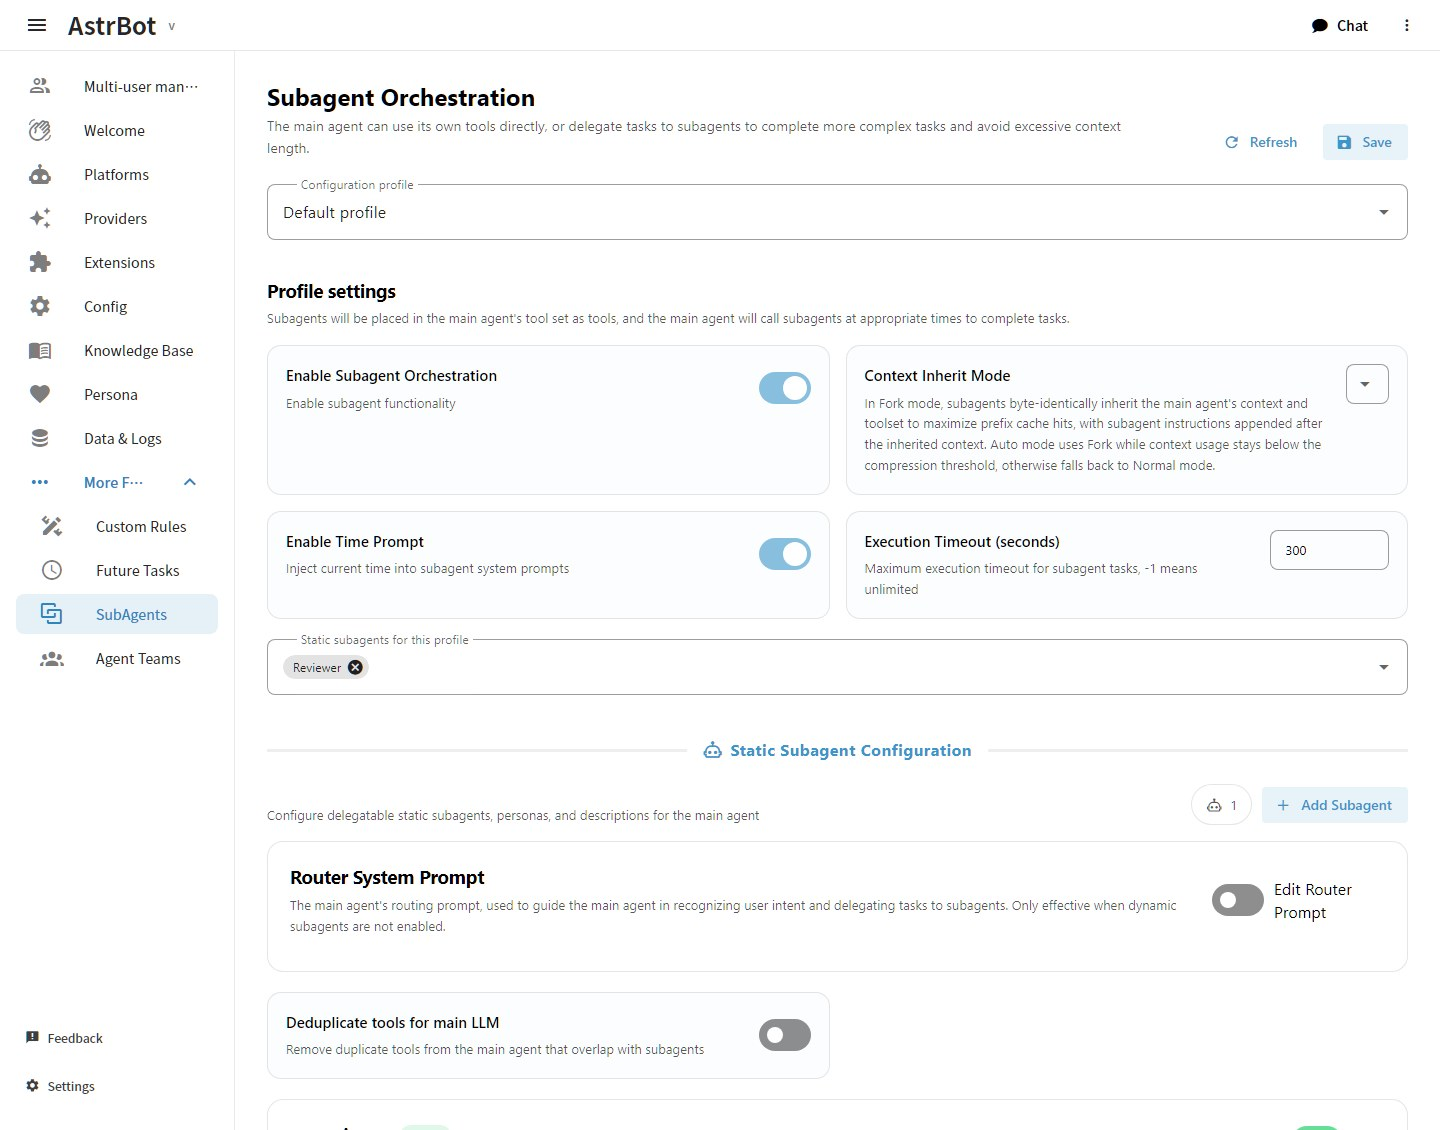
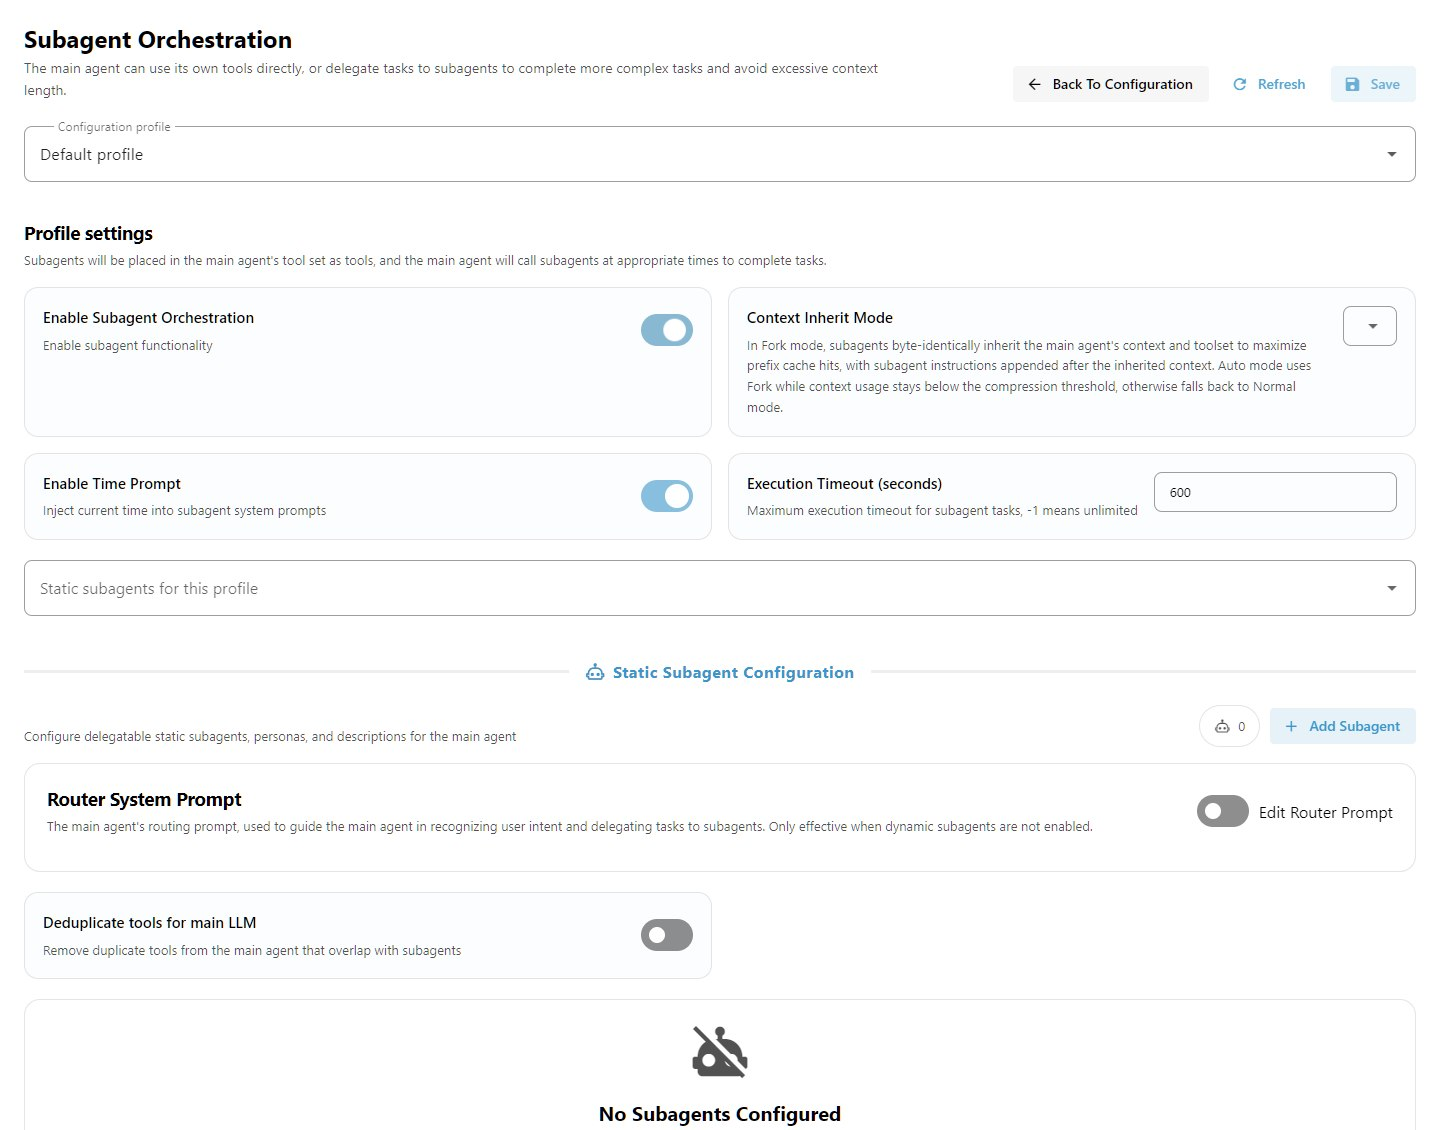
fix(dashboard): link profiles to subagent orchestration

diff --git a/dashboard/src/views/ConfigPage.vue b/dashboard/src/views/ConfigPage.vue
@@ -25,6 +25,16 @@
           </div>
 
           <div class="config-toolbar-actions">
+            <v-btn
+              v-if="!isSystemConfig && initialConfigId === null && !configSearchExpanded"
+              :to="{ name: 'SubAgent', query: { config_id: selectedConfigID } }"
+              :disabled="!fetched"
+              variant="text"
+              size="small"
+              append-icon="mdi-arrow-right"
+            >
+              {{ tmSubagent('page.title') }}
+            </v-btn>
             <div
               class="config-search-control"
               :class="{ 'config-search-control--expanded': configSearchExpanded }"
@@ -321,12 +331,14 @@ export default {
     const { t } = useI18n();
     const { tm } = useModuleI18n('features/config');
     const { tm: tmMeta } = useModuleI18n('features/config-metadata');
+    const { tm: tmSubagent } = useModuleI18n('features/subagent');
     const confirmDialog = useConfirmDialog();
 
     return {
       t,
       tm,
       tmMeta,
+      tmSubagent,
       confirmDialog
     };
   },
@@ -362,6 +374,15 @@ export default {
       }
     } else {
       next();
+    }
+  },
+
+  async beforeRouteUpdate(to, from) {
+    if (this.initialConfigId !== null || to.query.config_id === from.query.config_id) return;
+    const requestedId = to.query.config_id;
+    const profile = this.configInfoList.find(info => info.id === (requestedId || 'default')) || this.configInfoList[0];
+    if (profile && profile.id !== this.selectedConfigID) {
+      return this.onConfigSelect(profile.id, false);
     }
   },
 
@@ -449,6 +470,7 @@ export default {
         config: {}
       },
       fetched: false,
+      configRequest: 0,
       metadata: {},
       save_message_snack: false,
       save_message: "",
@@ -500,7 +522,8 @@ export default {
     this.configType = hashConfigType || 'normal';
     this.isSystemConfig = this.configType === 'system';
 
-    const targetConfigId = this.initialConfigId || 'default';
+    const requestedId = this.$route?.query?.config_id;
+    const targetConfigId = this.initialConfigId || (typeof requestedId === 'string' && requestedId) || 'default';
     this.getConfigInfoList(targetConfigId);
     // 初始化配置类型状态
     this.configType = this.isSystemConfig ? 'system' : 'normal';
@@ -592,13 +615,25 @@ export default {
         this.save_message_success = "error";
       });
     },
-    getConfig(abconf_id) {
+    getConfig(abconf_id, syncRoute = true) {
+      const requestId = ++this.configRequest;
+      if (syncRoute && this.initialConfigId === null && this.$route?.name === 'Configs' && !this.isSystemConfig) {
+        const configId = abconf_id || this.selectedConfigID;
+        const routeId = this.$route.query.config_id;
+        if (configId !== (routeId ?? 'default')) {
+          this.$router.replace({
+            query: { ...this.$route.query, config_id: configId === 'default' ? undefined : configId },
+            hash: this.$route.hash
+          });
+        }
+      }
       this.fetched = false
       const request = this.isSystemConfig
         ? systemConfigApi.get()
         : configProfileApi.get(abconf_id || this.selectedConfigID);
 
       request.then((res) => {
+        if (requestId !== this.configRequest) return;
         this.config_data = res.data.data.config;
         this.lastSavedConfigSnapshot = this.getConfigSnapshot(this.config_data);
         this.fetched = true
@@ -612,7 +647,8 @@ export default {
               this.currentConfigId = abconf_id || this.selectedConfigID;
             }
           });
-      }).catch((err) => {
+      }).catch(() => {
+        if (requestId !== this.configRequest) return;
         this.save_message = this.messages.loadError;
         this.save_message_snack = true;
         this.save_message_success = "error";
@@ -794,50 +830,30 @@ export default {
         return this.normalizeConfigName(config.name) === normalizedName;
       });
     },
-    async onConfigSelect(value) {
+    async onConfigSelect(value, syncRoute = true) {
       if (value === '_%manage%_') {
         this.configManageDialog = true;
         return;
-      } else {
-        // 检查是否有未保存的更改
-        if (this.hasUnsavedChanges) {
-          // 获取之前正在编辑的配置id
-          const prevConfigId = this.isSystemConfig ? 'default' : (this.currentConfigId || this.selectedConfigID || 'default');
-          const message = this.tm('unsavedChangesWarning.switchConfig');
-          const saveAndSwitch = await this.$refs.unsavedChangesDialog?.open({
-            title: this.tm('unsavedChangesWarning.dialogTitle'),
-            message: message,
-            confirmHint: `${this.tm('unsavedChangesWarning.options.saveAndSwitch')}:${this.tm('unsavedChangesWarning.options.confirm')}`,
-            cancelHint: `${this.tm('unsavedChangesWarning.options.discardAndSwitch')}:${this.tm('unsavedChangesWarning.options.cancel')}`,
-            closeHint: `${this.tm('unsavedChangesWarning.options.closeCard')}:"x"`
-          });
-          // 关闭弹窗不切换
-          if (saveAndSwitch === 'close') {
-            return;
-          }
-          if (saveAndSwitch) {
-            // 设置临时变量保存切换后的id
-            const currentSelectedId = this.selectedConfigID;
-            // 把id设置回切换前的用于保存上一次的配置，保存完后恢复id为切换后的
-            this.selectedConfigID = prevConfigId;
-            const result = await this.updateConfig();
-            this.selectedConfigID = currentSelectedId;
-            if (result?.success) {
-              this.selectedConfigID = value;
-              this.getConfig(value);
-            }
-            return;
-          } else {
-            // 取消保存并切换配置
-            this.selectedConfigID = value;
-            this.getConfig(value);
-          }
-        } else {
-          // 无未保存更改直接切换
-          this.selectedConfigID = value;
-          this.getConfig(value);
+      }
+      if (this.hasUnsavedChanges) {
+        const saveAndSwitch = await this.$refs.unsavedChangesDialog?.open({
+          title: this.tm('unsavedChangesWarning.dialogTitle'),
+          message: this.tm('unsavedChangesWarning.switchConfig'),
+          confirmHint: `${this.tm('unsavedChangesWarning.options.saveAndSwitch')}:${this.tm('unsavedChangesWarning.options.confirm')}`,
+          cancelHint: `${this.tm('unsavedChangesWarning.options.discardAndSwitch')}:${this.tm('unsavedChangesWarning.options.cancel')}`,
+          closeHint: `${this.tm('unsavedChangesWarning.options.closeCard')}:"x"`
+        });
+        if (saveAndSwitch === 'close') return false;
+        if (saveAndSwitch) {
+          const selectedId = this.selectedConfigID;
+          this.selectedConfigID = this.isSystemConfig ? 'default' : (this.currentConfigId || selectedId || 'default');
+          const result = await this.updateConfig();
+          this.selectedConfigID = selectedId;
+          if (!result?.success) return false;
         }
       }
+      this.selectedConfigID = value;
+      this.getConfig(value, syncRoute);
     },
     setConfigFormState({ mode = 'create', config = null, visible = true } = {}) {
       this.showConfigForm = visible;

diff --git a/dashboard/src/views/SubAgentPage.vue b/dashboard/src/views/SubAgentPage.vue
@@ -8,10 +8,17 @@
         </div>
 
         <div class="dashboard-header-actions">
-          <v-btn variant="text" color="primary" prepend-icon="mdi-refresh" :loading="loading" @click="reload">
+          <v-btn
+            :to="{ name: 'Configs', query: { config_id: selectedProfile } }"
+            variant="text"
+            prepend-icon="mdi-arrow-left"
+          >
+            {{ tm('actions.backToProfile') }}
+          </v-btn>
+          <v-btn variant="text" color="primary" prepend-icon="mdi-refresh" :loading="loading" :disabled="saving" @click="reload">
             {{ tm('actions.refresh') }}
           </v-btn>
-          <v-btn variant="tonal" color="primary" prepend-icon="mdi-content-save" :loading="saving" @click="save">
+          <v-btn variant="tonal" color="primary" prepend-icon="mdi-content-save" :loading="saving" :disabled="loading || !hasLoaded" @click="save">
             {{ tm('actions.save') }}
           </v-btn>
         </div>
@@ -658,8 +665,8 @@
 </template>
 
 <script setup lang="ts">
-import { computed, onBeforeUnmount, onMounted, ref } from 'vue'
-import { onBeforeRouteLeave } from 'vue-router'
+import { computed, onBeforeUnmount, onMounted, ref, watch } from 'vue'
+import { onBeforeRouteLeave, onBeforeRouteUpdate, useRoute, useRouter } from 'vue-router'
 import { useTheme } from 'vuetify'
 import { configProfileApi, mcpApi, subagentApi } from '@/api/v1'
 import PersonaQuickPreview from '@/components/shared/PersonaQuickPreview.vue'
@@ -719,9 +726,12 @@ type AvailableTool = {
 const { tm } = useModuleI18n('features/subagent')
 const theme = useTheme()
 const confirmDialog = useConfirmDialog()
+const route = useRoute()
+const router = useRouter()
 
 const loading = ref(false)
-const selectedProfile = ref('default')
+const selectedProfile = computed(() => (typeof route.query.config_id === 'string' && route.query.config_id) || 'default')
+let configRequest = 0
 const profiles = ref([{ id: 'default', name: tm('profile.default') }])
 const catalogue = ref<{ id: string; name: string; status: string }[]>([])
 const catalogueChoices = computed(() => {
@@ -986,9 +996,12 @@ async function loadAvailableTools() {
 }
 
 async function loadConfig() {
+  const request = ++configRequest
   loading.value = true
+  hasLoaded.value = false
   try {
     const res = await subagentApi.getConfig(selectedProfile.value)
+    if (request !== configRequest) return
     if (res.data.status === 'ok') {
       const data = res.data.data
       catalogue.value = Array.isArray(data.available_agents) ? data.available_agents : []
@@ -1003,9 +1016,9 @@ async function loadConfig() {
       toast(res.data.message || tm('messages.loadConfigFailed'), 'error')
     }
   } catch (e: any) {
-    toast(e?.response?.data?.message || tm('messages.loadConfigFailed'), 'error')
+    if (request === configRequest) toast(e?.response?.data?.message || tm('messages.loadConfigFailed'), 'error')
   } finally {
-    loading.value = false
+    if (request === configRequest) loading.value = false
   }
 }
 
@@ -1066,7 +1079,7 @@ function validateBeforeSave(): boolean {
 }
 
 async function save() {
-  if (!validateBeforeSave()) return
+  if (!hasLoaded.value || loading.value || saving.value || !validateBeforeSave()) return
   saving.value = true
   try {
     const payload = {
@@ -1195,11 +1208,12 @@ function isToolInTargetList(toolName: string): boolean {
   }
 }
 
-async function selectProfile(id: string) {
-  if (id === selectedProfile.value || !await confirmLeaveIfNeeded()) return
-  selectedProfile.value = id
-  await loadConfig()
+function selectProfile(id: string) {
+  if (id === selectedProfile.value) return
+  return router.replace({ query: { ...route.query, config_id: id }, hash: route.hash })
 }
+
+watch(selectedProfile, loadConfig)
 
 onMounted(() => {
   configProfileApi.list().then(({ data }) => {
@@ -1221,7 +1235,13 @@ onBeforeUnmount(() => {
 })
 
 onBeforeRouteLeave(async () => {
-  return await confirmLeaveIfNeeded()
+  return !saving.value && await confirmLeaveIfNeeded()
+})
+
+onBeforeRouteUpdate(async (to, from) => {
+  if (to.query.config_id !== from.query.config_id) {
+    return !saving.value && await confirmLeaveIfNeeded()
+  }
 })
 </script>
 

diff --git a/dashboard/src/views/SubAgentPage.spec.ts b/dashboard/src/views/SubAgentPage.spec.ts
@@ -3,6 +3,7 @@ import { flushPromises, shallowMount } from '@vue/test-utils'
 import SubAgentPage from './SubAgentPage.vue'
 
 const { getConfig, updateConfig, listMcp } = vi.hoisted(() => ({ getConfig: vi.fn(), updateConfig: vi.fn(), listMcp: vi.fn() }))
+const route = vi.hoisted(() => ({ query: {} as Record<string, string> }))
 
 vi.mock('@/api/v1', () => ({
   configProfileApi: { list: vi.fn().mockResolvedValue({ data: { status: 'ok', data: { info_list: [{ id: 'default', name: 'default' }] } } }) },
@@ -10,7 +11,12 @@ vi.mock('@/api/v1', () => ({
   mcpApi: { list: listMcp }
 }))
 vi.mock('vuetify', () => ({ useTheme: () => ({ global: { current: { value: { dark: false } } } }) }))
-vi.mock('vue-router', () => ({ onBeforeRouteLeave: vi.fn() }))
+vi.mock('vue-router', () => ({
+  onBeforeRouteLeave: vi.fn(),
+  onBeforeRouteUpdate: vi.fn(),
+  useRoute: () => route,
+  useRouter: () => ({ replace: vi.fn() })
+}))
 vi.mock('@/i18n/composables', () => ({ useModuleI18n: () => ({ tm: (key: string) => key }) }))
 vi.mock('@/utils/confirmDialog', () => ({ useConfirmDialog: () => ({}), askForConfirmation: vi.fn() }))
 vi.mock('@/components/shared/PersonaQuickPreview.vue', () => ({ default: { template: '<div />' } }))
@@ -107,5 +113,23 @@ describe('SubAgentPage', () => {
     expect(vm.availableMcpServers.every((option: any) => !option.props?.disabled)).toBe(true)
     expect(vm.dynamicCfg.mcp_inherent).toEqual(['runtime:plugin'])
     wrapper.unmount()
+  })
+
+  it('loads and saves the profile linked from the configuration page', async () => {
+    route.query.config_id = 'research'
+    getConfig.mockClear().mockResolvedValue({ data: { status: 'ok', data: {} } })
+    updateConfig.mockClear().mockResolvedValue({ data: { status: 'ok' } })
+    const wrapper = shallowMount(SubAgentPage, { global: { config: { warnHandler: () => {} } } })
+
+    try {
+      await flushPromises()
+      expect(getConfig).toHaveBeenCalledTimes(1)
+      expect(getConfig).toHaveBeenCalledWith('research')
+      await (wrapper.vm as any).save()
+      expect(updateConfig).toHaveBeenCalledWith(expect.any(Object), 'research')
+    } finally {
+      wrapper.unmount()
+      delete route.query.config_id
+    }
   })
 })

diff --git a/docs/en/use/subagent.md b/docs/en/use/subagent.md
@@ -28,6 +28,10 @@ With SubAgent Orchestration, the Main Agent can interact with users, use its own
 
 In the AstrBot WebUI, expand **More Features** in the left navigation bar and click **SubAgents** (`/subagent`).
 
+You can also open **Config**, select a profile, and click **Subagent Orchestration** at the top of the page. The orchestration page opens with that profile selected. Click **Back to Configuration** to open the currently selected profile.
+
+![Subagent Orchestration shortcut in the profile toolbar](/images/config-subagent-link-en.jpg)
+
 ### 1. Enable SubAgent Mode
 
 Select a configuration profile at the top of the page and enable SubAgent Orchestration for it. Maintain the shared static catalogue under **Default profile** and use **Static subagents for this profile** to select available entries for each profile. Unavailable selections show a reason and can be removed. Dynamic creation, limits, timeouts, the default model, and tool policies are saved with the selected profile.

diff --git a/docs/en/use/webui.md b/docs/en/use/webui.md
@@ -651,6 +651,8 @@ This is an embedded page, with no back/forward controls. Its address bar keeps t
 
 Select `Config` in the sidebar, then choose the profile to edit from the selector at the top. Sections appear in this order: `AI`, `Platforms & Messages`, `Access Control`, `Plugin`, and `Ext.`. Use the search control at the top to find a setting.
 
+**Subagent Orchestration** at the top of the page opens the selected profile's subagent policy. **Back to Configuration** returns to that profile. See [Subagent configuration](./subagent.md#configuration).
+
 - In `AI`, built-in AI settings have `Model`, `Persona`, `Capabilities`, and `Advanced` tabs. Use `… → Change execution mode` beside the AI heading to connect a third-party agent.
 - `Access Control` contains administrator IDs and the session whitelist, including whitelist logs and administrator exemptions.
 - `Platforms & Messages` contains message-trigger, session-isolation, and delivery settings.

diff --git a/docs/zh/use/webui.md b/docs/zh/use/webui.md
@@ -618,6 +618,8 @@ ChatUI 支持以下常用能力：
 
 点击左栏 `配置文件`，先从页面顶部选择要修改的配置文件。分区依次为 `AI`、`平台与消息`、`访问控制`、`插件`、`扩展功能`，也可以使用顶部搜索定位配置项。
 
+页面顶部的 **子代理编排** 会打开当前配置文件的子代理策略。编排页面的 **返回配置文件** 可回到对应的配置文件。详见[子代理配置方法](./subagent.md#配置方法)。
+
 - `AI` 中，内置 AI 的设置分为 `模型`、`人格`、`能力`、`高级`；AI 标题旁的 `… → 更换执行方式` 用于接入第三方 Agent。
 - `访问控制` 中设置管理员 ID 和白名单，包括白名单日志与管理员豁免选项。
 - `平台与消息` 中设置消息触发方式、会话隔离和发送行为。
